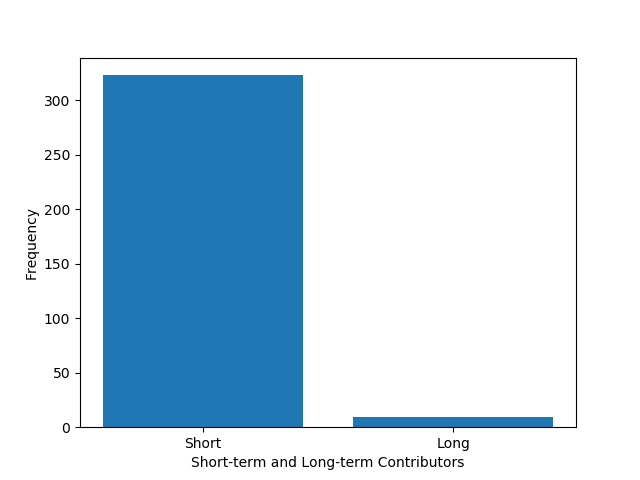
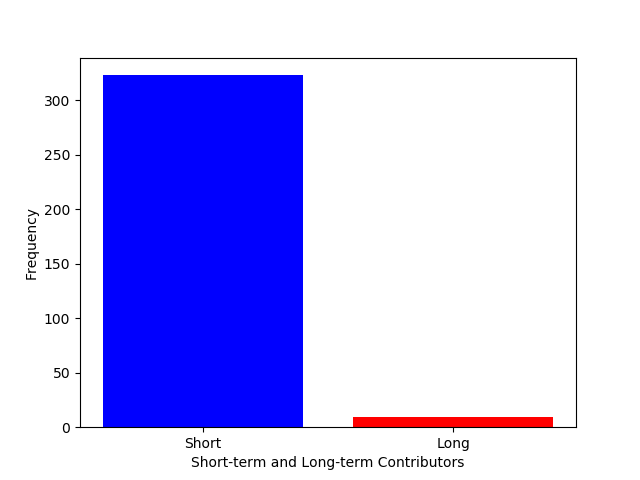
Added short-term and long-term contributor graph

Changed region(s): [[0.1562, 0.1562, 0.5, 0.9062], [0.5312, 0.8438, 0.875, 0.9062]]

diff --git a/Histogram Plotter/histogram.py b/Histogram Plotter/histogram.py
@@ -203,7 +203,11 @@ def histogram(data, type_of_histogram, filename = "") :
 		plt.xlabel('Short-term and Long-term Contributors')
 		plt.ylabel('Frequency')
 		
-		plt.bar(list(x.keys()), list(x.values()))
+		
+		colors = ['blue', 'red']
+		plt.bar(list(x.keys()), list(x.values()), color=colors)
+		
+		#test.legend()
 		
 		test.show() 
 		test.savefig(filename)
